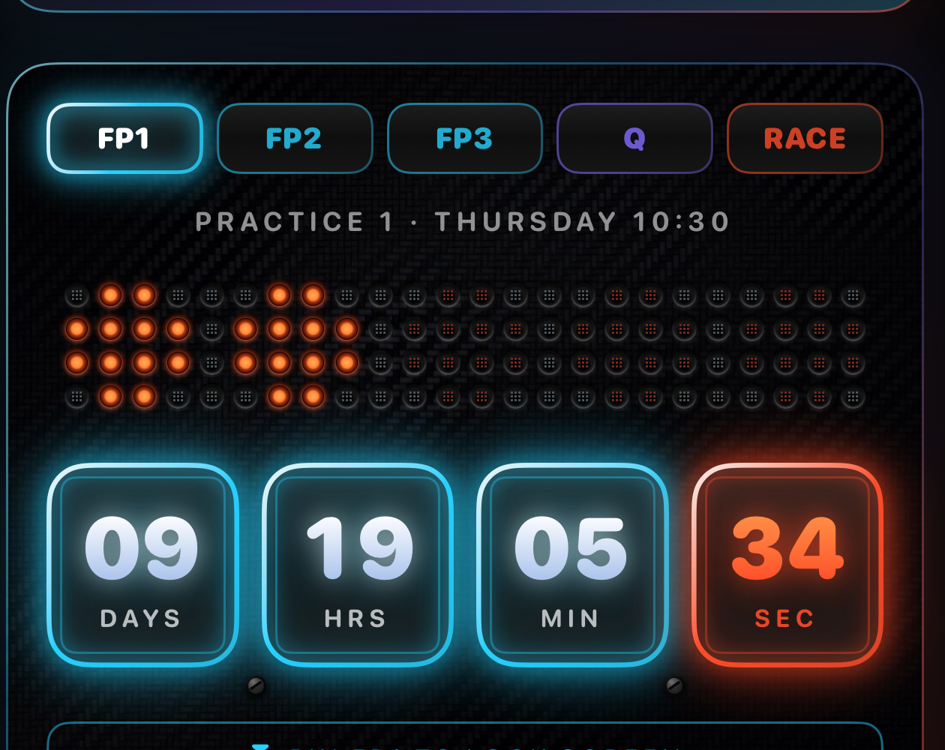
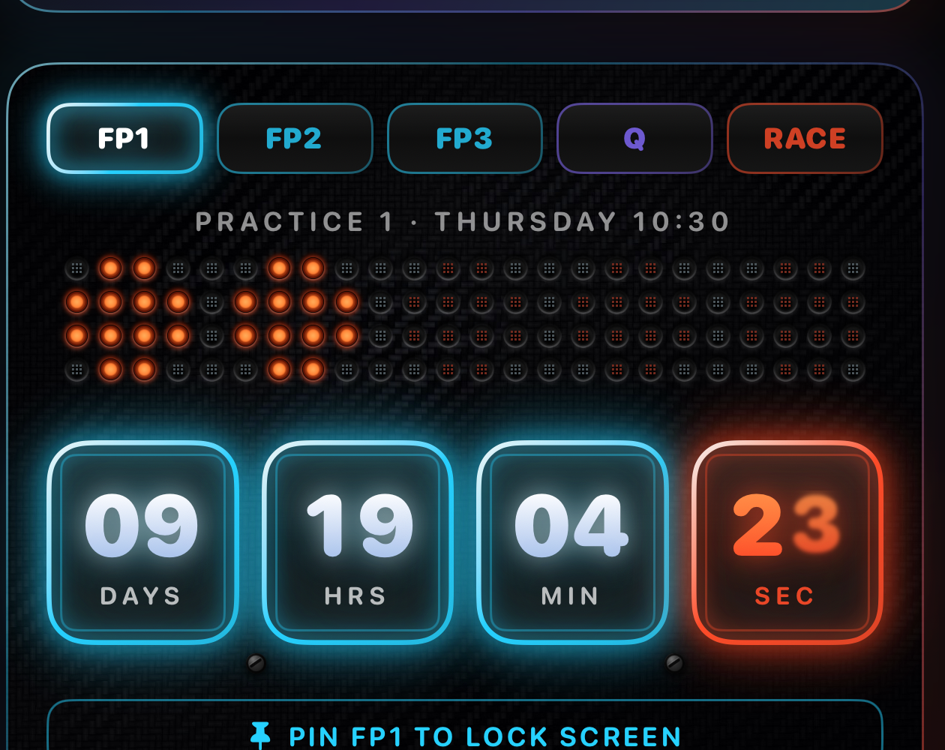
LED board pulled up under the session caption

Changed region(s): [[0.0307, 0.3373, 0.9513, 1.0]]

diff --git a/TeamRadio/Views/CockpitKit.swift b/TeamRadio/Views/CockpitKit.swift
@@ -324,7 +324,8 @@ struct DotMatrixBoard: View {
         }
         // a little taller than the grid so the halos aren't clipped
         .frame(height: 84)
-        .padding(.vertical, -8)
+        .padding(.top, -20)
+        .padding(.bottom, -6)
         .contentShape(Rectangle())
         .onTapGesture { advance() }
         .onDisappear { settle?.cancel() }
